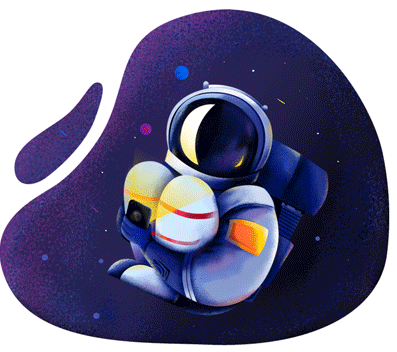
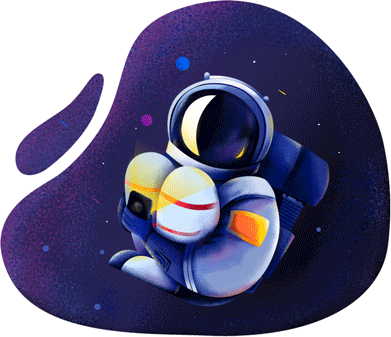
Main content style

Changed region(s): [[0.0, 0.0, 1.0, 1.0]]

diff --git a/style.css b/style.css
@@ -7,17 +7,17 @@ header,
 main, 
 footer {
    display: inline-block;
-   background-color: pink;
-   width: 800px;
-   margin-left: calc(50% - 400px);
+   width: 1000px;
+   margin-left: calc(50% - 500px);
    margin-bottom: 30px;
+   /* background-color: pink; */
 }
 
 header {
    margin-top: 40px;
 }
 
-img {
+header > img {
    width: 100px;
    height: 40px;
    float: left;
@@ -30,7 +30,7 @@ nav {
    margin-top: 10px;
 }
 
-a {
+nav > a {
    display: inline-block;
    font-size: 20px;
    line-height: 1em;
@@ -39,11 +39,49 @@ a {
    margin-left: 2em;
 }
 
-a:first-child {
+nav > a:first-child {
    margin-left: 0;
 }
 
-a:hover {
+nav > a:hover {
    color: orangered;
    text-decoration: underline;
+}
+
+main {
+
+}
+
+div {
+   width: 40%;
+   float: left;
+}
+
+h1 {
+   font-size: 50px;
+   font-weight: normal;
+   color: #222222;
+}
+
+h1 > span {
+   font-weight: bold;
+   display: block;
+}
+
+p {
+ font-size: 20px;
+ /* width: 80%; */
+}
+
+div > a {
+
+}
+
+div > a:last-child {
+ background-color: orange;
+}
+
+main > img {
+   width: 55%;
+   float: right;
 }

diff --git a/index.html b/index.html
@@ -30,7 +30,13 @@
    </header>
 
    <main>
-      MAIN content
+      <div>
+         <h1>404 <span>Lost in space</span></h1>
+         <p>Lorem ipsum dolor sit amet, consectetur adipisicing elit. Fugit earum nostrum vero non! Ipsum, fuga nisi voluptates voluptatibus ab consectetur dolorum esse nihil ratione sit beatae odit. Officia, veritatis iusto?</p>
+         <a href="#">Go home</a>
+         <a href="#">Back</a>
+      </div>
+      <img src="./astronautas.png" alt="Astronautas su telefonu">
    </main>
 
    <footer>
